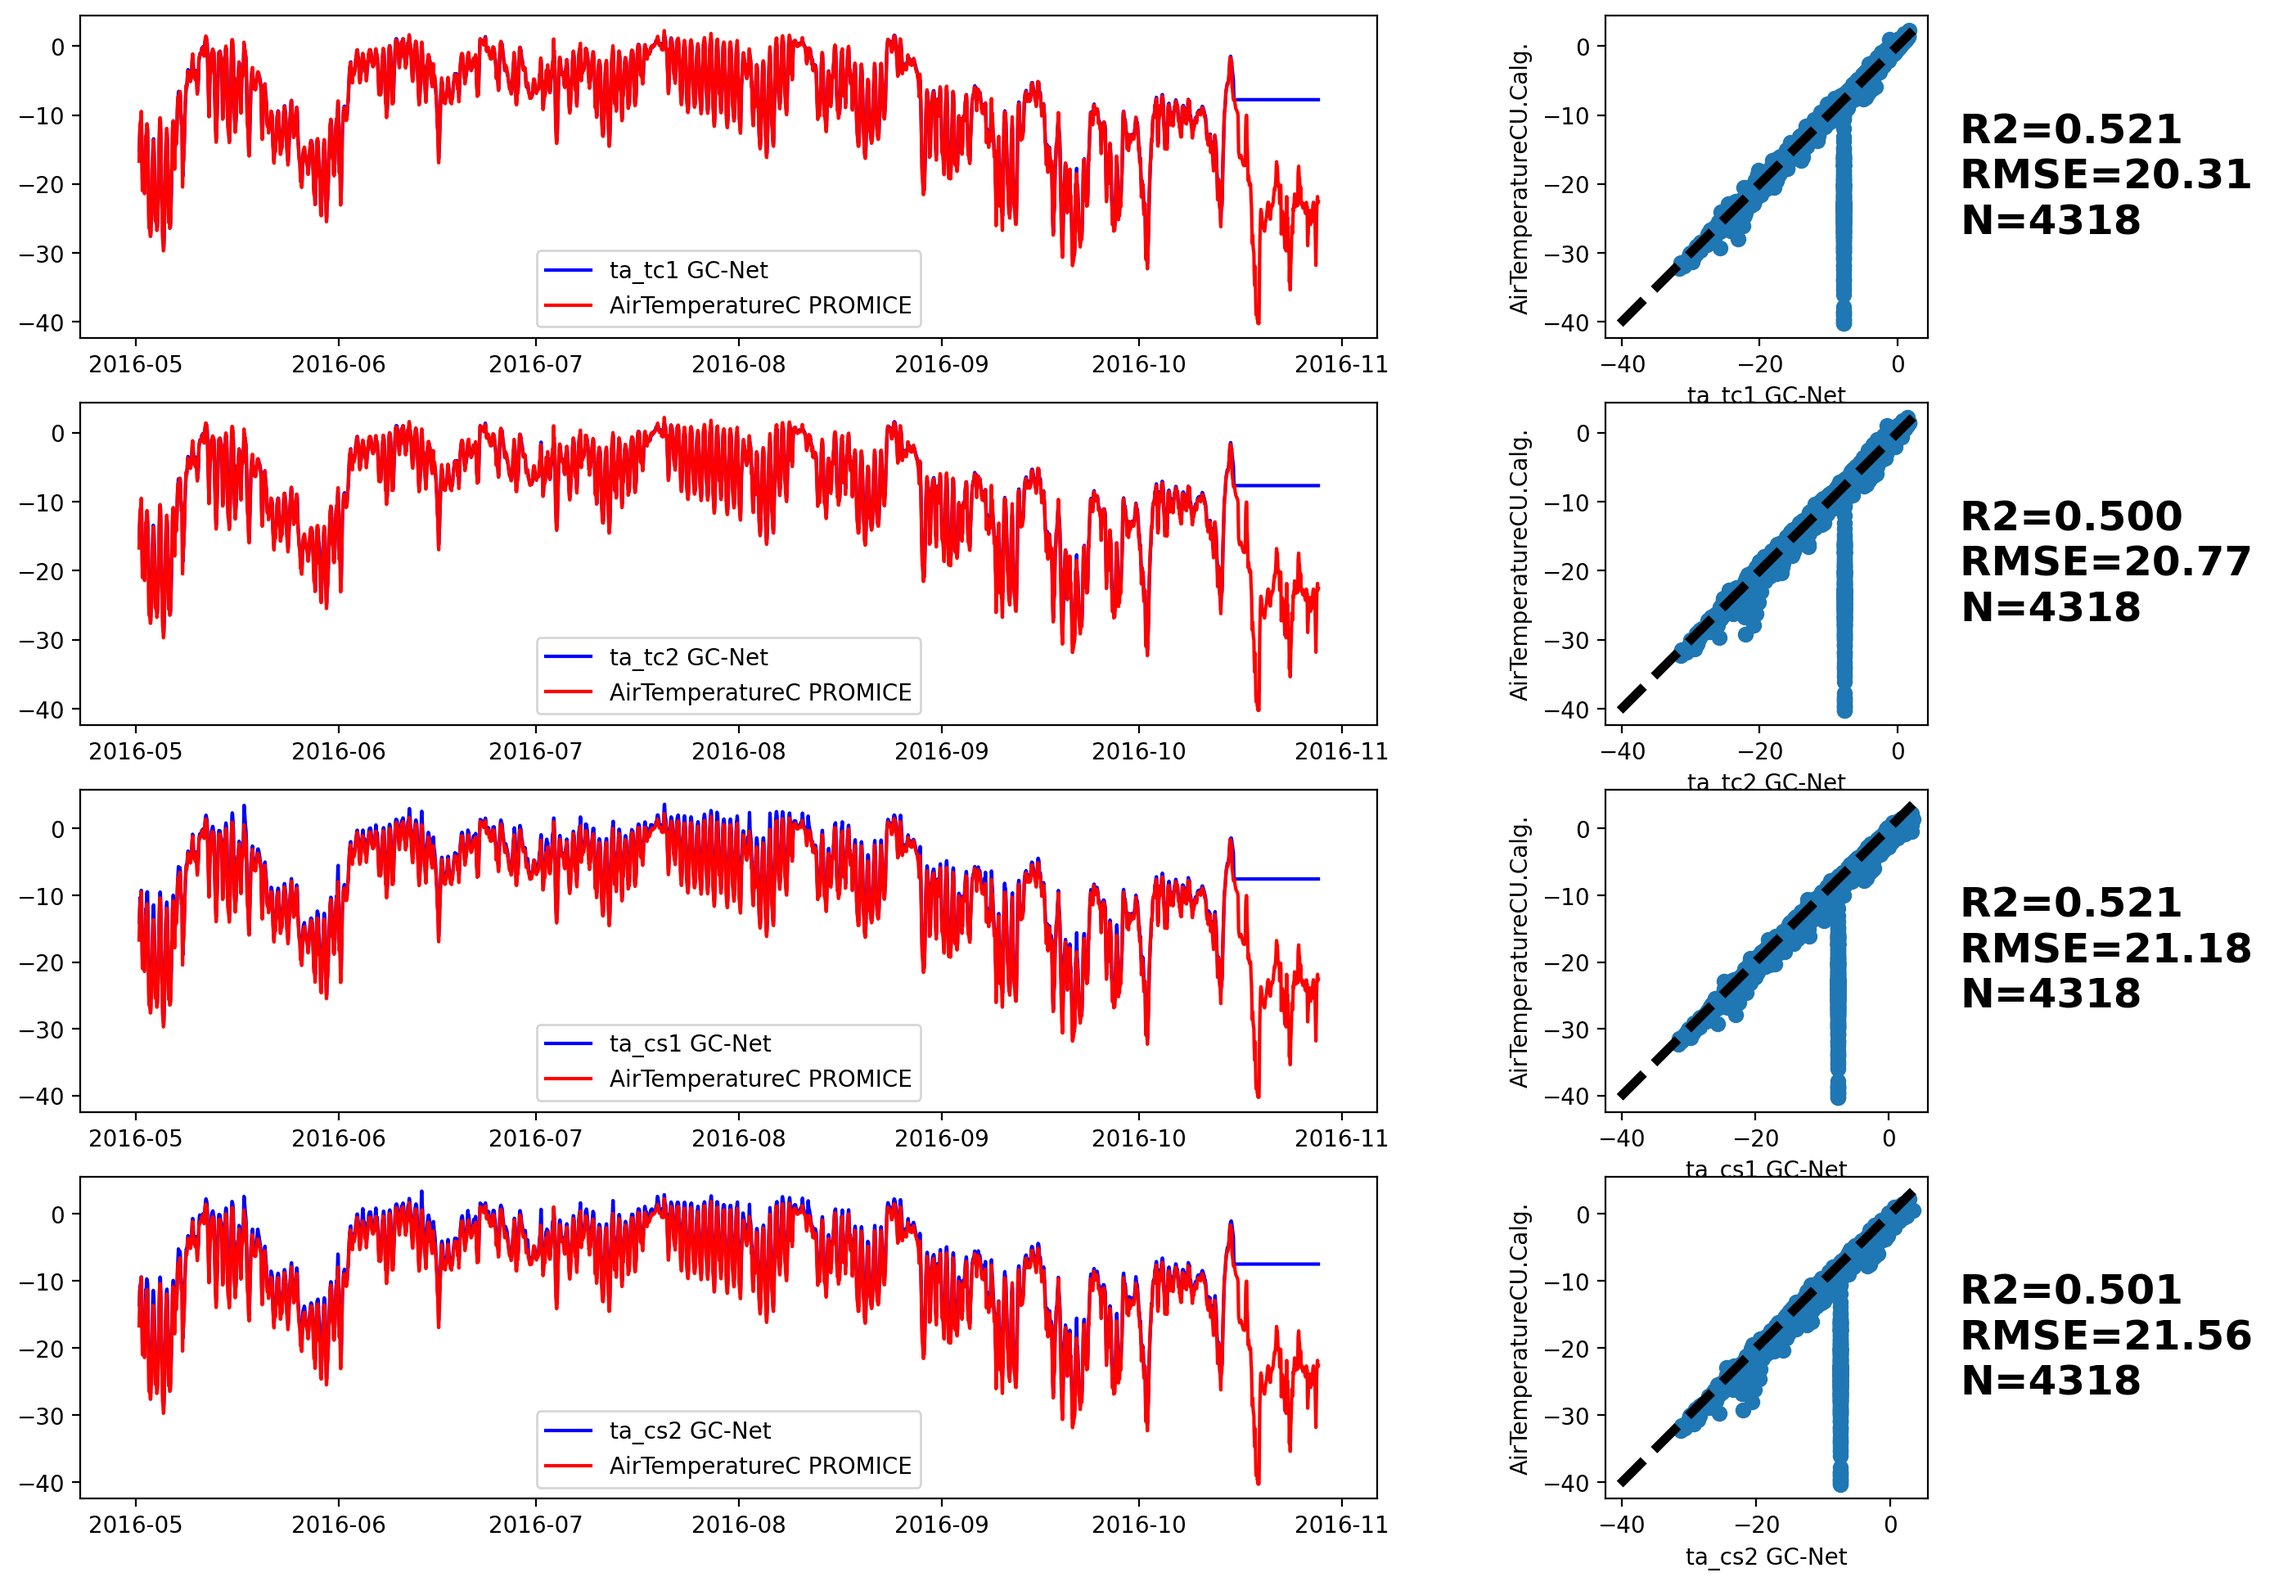
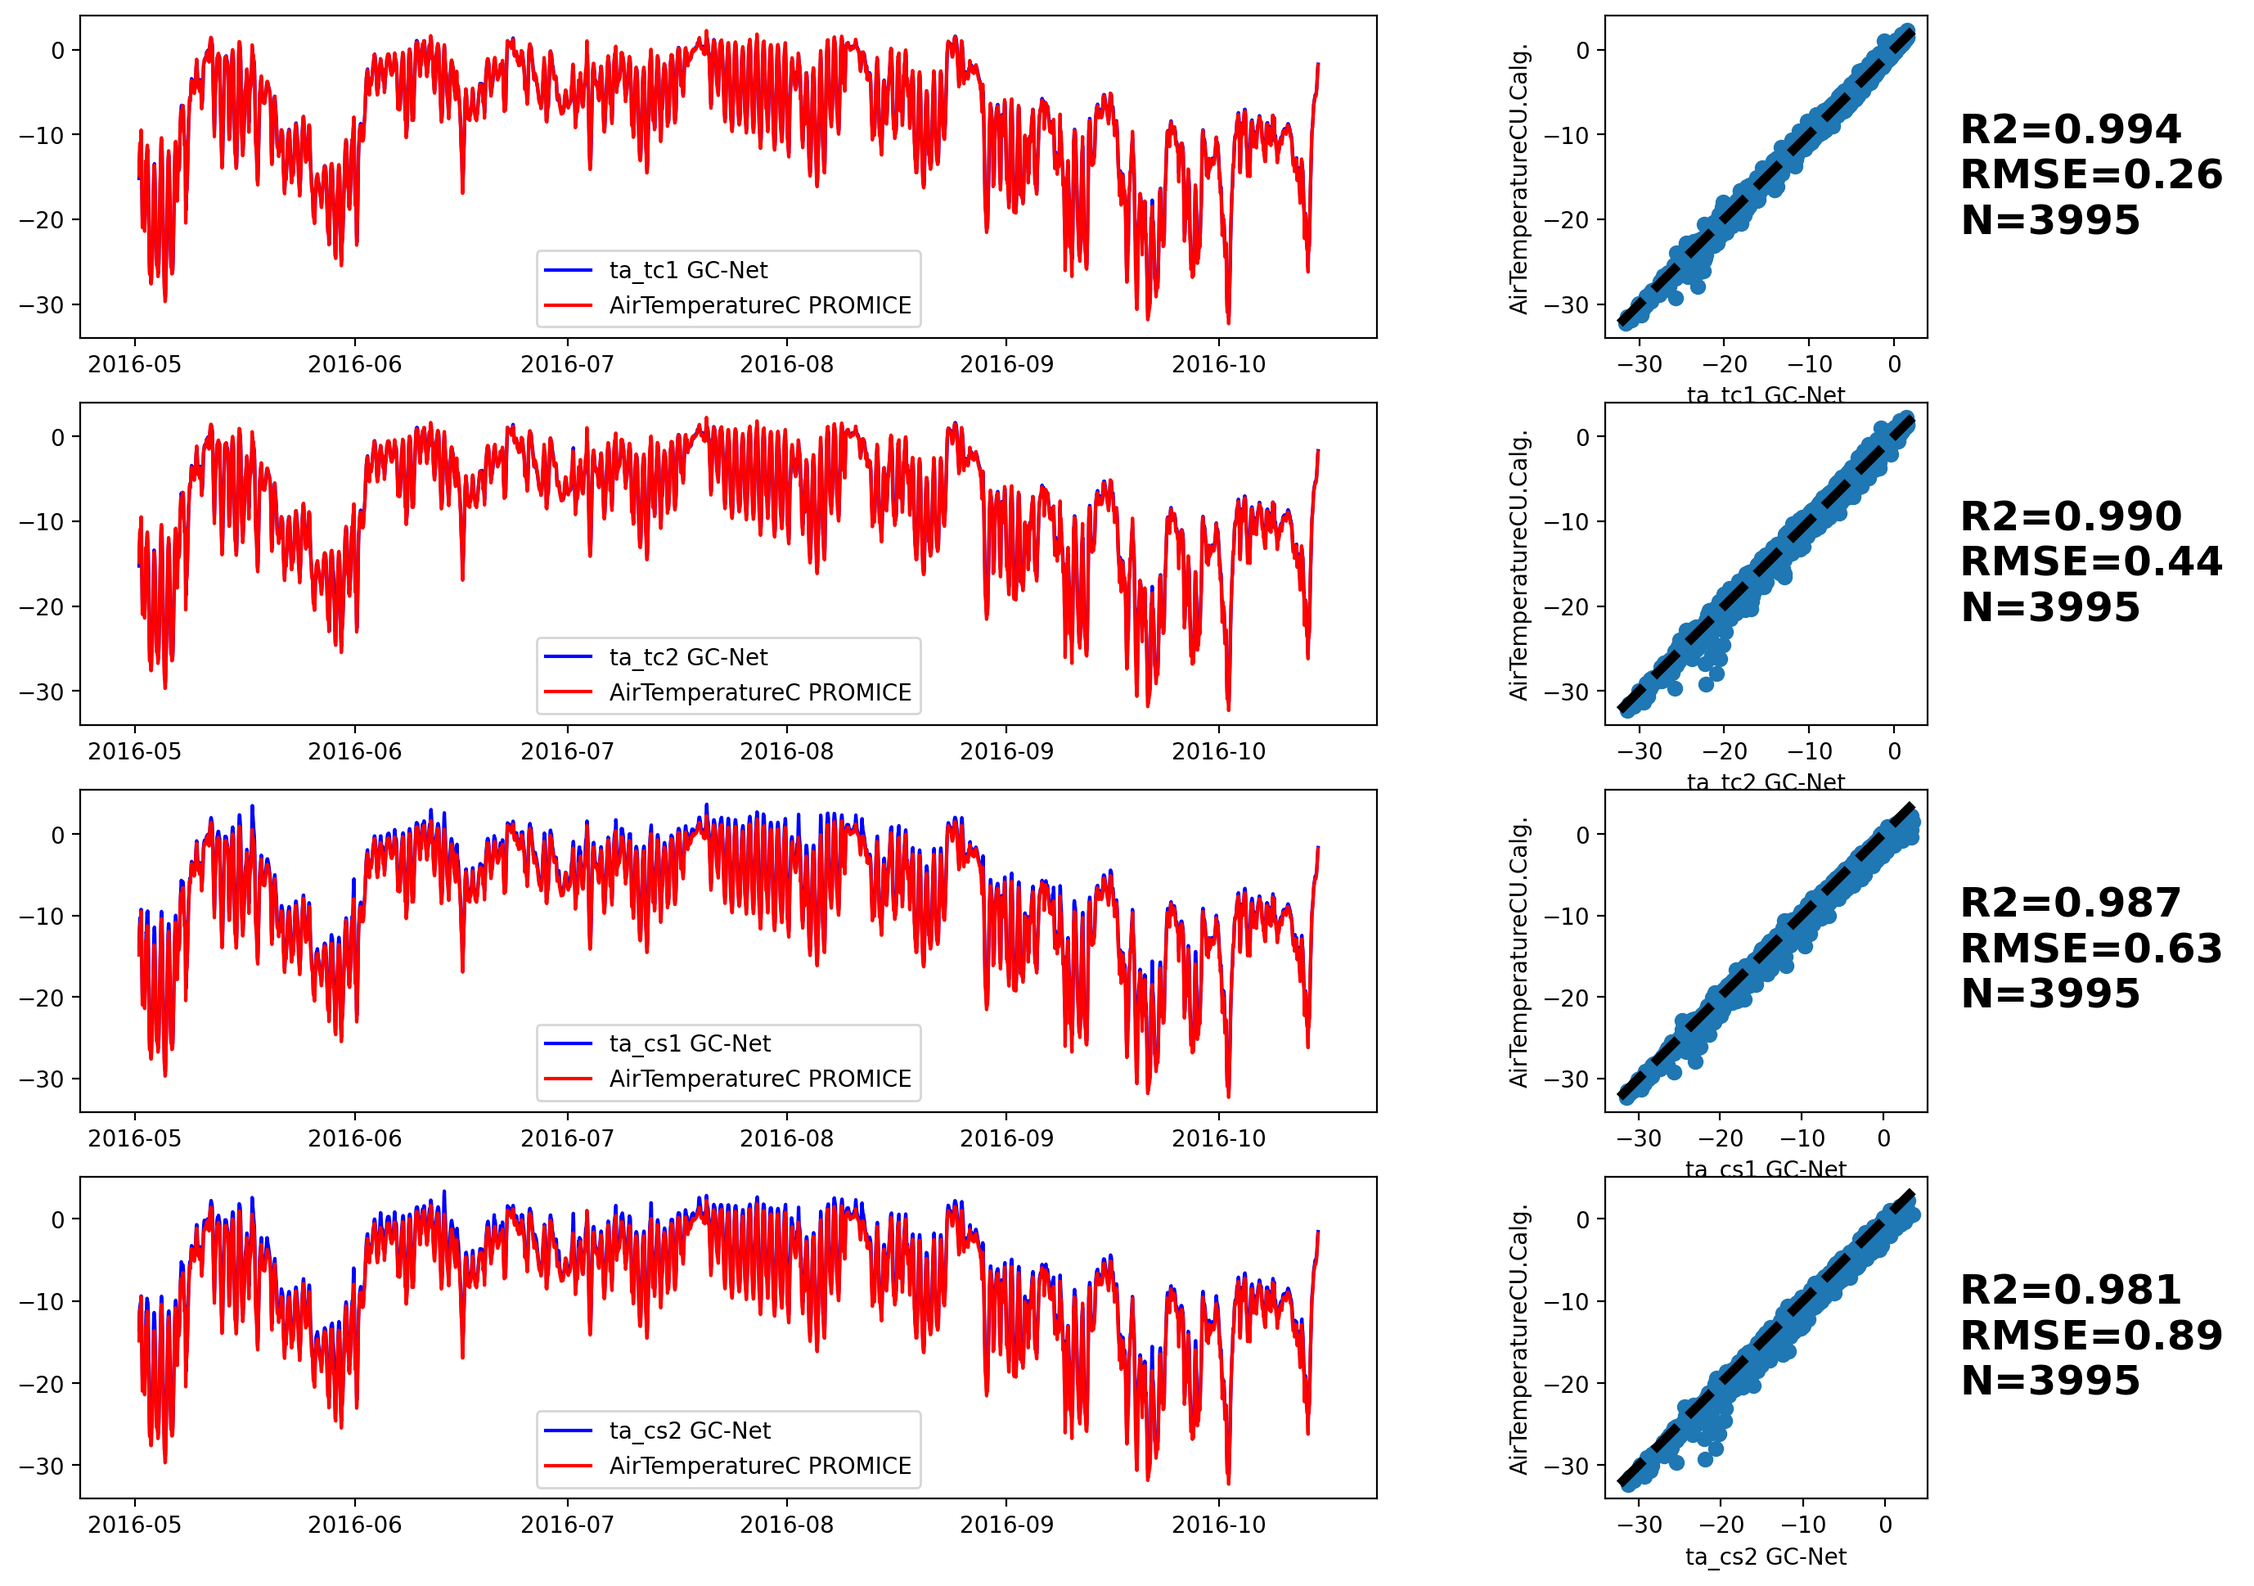
Added GITS-CEN
but no overlap

diff --git a/GC-Net-evaluation.py b/GC-Net-evaluation.py
@@ -37,16 +37,28 @@ df_samira = gnl.load_promice(path_ucalg)
 # selecting overlapping data
 df_gc = df_gc.loc[df_gc.time>=df_samira['time'][0]]
 df_gc = df_gc.loc[df_gc.time<=df_samira['time'].values[-1]]
-# df_gc.loc[df_gc.time>=datetime.datetime(2016, 10, 15, 9, 0)] = np.NaN
+df_gc=df_gc.loc[df_gc.time<='2016-10-15'] 
 
-# df_samira = df_samira.loc[df_samira.time>=df_gc['time'].iloc[0]]
-# df_samira = df_samira.loc[df_samira.time<=df_gc['time'].iloc[-1]]
+df_samira = df_samira.loc[df_samira.time>=df_gc['time'].iloc[0]]
+df_samira = df_samira.loc[df_samira.time<=df_gc['time'].iloc[-1]]
 
 
 # joining datasets
 df_all = pd.concat([df_gc, df_samira], axis = 0).sort_values(by='time')
 df_all = df_all.set_index('time')
 df_all['Albedo'] = df_all['ShortwaveRadiationUpWm2'] / df_all['ShortwaveRadiationDownWm2']
+df_all['rh1_i'] = gnl.RH_water2ice(df_all['rh1'] ,df_all['AirTemperatureC'])
+df_all['RelativeHumidity_i'] = gnl.RH_water2ice(df_all['RelativeHumidity_wrtWater'] ,df_all['AirTemperatureC'])
+df_all['ps']=df_all['ps']/100
+
+df_all['SpecHum1'] = gnl.RH2SpecHum(df_all['rh1_i'] ,
+                                                       df_all['ta_tc1'] ,
+                                                       df_all['ps'] )*1000
+
+df_all['SpecHum_ucalg'] = gnl.RH2SpecHum(df_all['RelativeHumidity_i'] ,
+                                                       df_all['AirTemperatureC'] ,
+                                                       df_all['AirPressurehPa'] )*1000
+
 df_interpol = df_all.interpolate(method='time')
 df_interpol = df_interpol[~df_interpol.index.duplicated(keep='first')].resample('h').asfreq()
 
@@ -61,14 +73,13 @@ varname1 =  ['ta_tc1','ta_tc2','ta_cs1','ta_cs2']
 varname2 =  ['AirTemperatureC', 'AirTemperatureC', 'AirTemperatureC', 'AirTemperatureC']
 gnl.plot_comp(df_all, df_interpol, varname1, varname2,'U.Calg.', station+'_temp')
 
-varname1 =  ['rh1','rh2','ps']
-varname2 =  ['RelativeHumidity', 'RelativeHumidity', 'AirPressurehPa']
+varname1 =  ['rh1','SpecHum1','ps']
+varname2 =  ['RelativeHumidity_wrtWater', 'SpecHum_ucalg','AirPressurehPa']
 gnl.plot_comp(df_all, df_interpol, varname1, varname2,'U.Calg.', station+'_rh_pres')
 
 varname1 =  ['wspd1','wspd2','wdir1','wdir2']
 varname2 =  [ 'WindSpeedms', 'WindSpeedms','WindDirectiond','WindDirectiond']
 gnl.plot_comp(df_all, df_interpol, varname1, varname2,'U.Calg.', station+'_wind')
-
 
 #%% Comparison at EastGRIP
 # Loading gc-net data
@@ -151,4 +162,88 @@ varname2 =  ['AirTemperature(C)', 'AirTemperature(C)','AirTemperature(C)','AirTe
              'WindSpeed(m/s)', 'WindSpeed(m/s)', 'WindDirection(d)', 'WindDirection(d)']
 
 gnl.tab_comp(df_all, df_interpol, varname1, varname2, 'Output/stat_all')
+
+#%% GITS-Camp Century
+# Loading gc-net data
+path_gc = '../../AWS_Processing/Input/GCnet/20190501_jaws/'
+station = 'GITS'
+df_gc = gnl.load_gcnet(path_gc, station)
+
+df_gc['ta_tc1']=df_gc['ta_tc1']-273.15
+df_gc['ta_tc2']=df_gc['ta_tc2']-273.15
+df_gc['ta_cs1']=df_gc['ta_cs1']-273.15
+df_gc['ta_cs2']=df_gc['ta_cs2']-273.15
+
+# loading data from CEN
+path_promice = '../../AWS_Processing/Input/PROMICE/CEN_hour_v03.txt'
+df_cen = pd.read_csv(path_promice,delim_whitespace=True)
+df_cen['time'] = df_cen.Year * np.nan
+
+for i, y in enumerate(df_cen.Year.values):
+    df_cen.time[i] = datetime.datetime(int(y), df_cen['MonthOfYear'].values[i], df_cen['DayOfMonth'].values[i], df_cen['HourOfDay(UTC)'].values[i])
+
+#set invalid values (-999) to nan 
+df_cen[df_cen==-999.0]=np.nan
+
+# selecting overlapping data
+# df_gc = df_gc.loc[df_gc.time>=df_cen['time'][0]]
+# df_gc = df_gc.loc[df_gc.time<=df_cen['time'].values[-1]]
+
+# df_cen = df_cen.loc[df_cen.time>=df_gc['time'].iloc[0]]
+# df_cen = df_cen.loc[df_cen.time<=df_gc['time'].iloc[-1]]
+
+# joining datasets
+df_all = pd.concat([df_gc, df_cen], axis = 0).sort_values(by='time')
+df_all = df_all.set_index('time')
+df_all['Albedo'] = df_all['ShortwaveRadiationUp(W/m2)'] / df_all['ShortwaveRadiationDown(W/m2)']
+# df_all['RelativeHumidity_wrt'] = gnl.RH_ice2water(df_all['RelativeHumidity(%)'] ,
+#                                                        df_all['AirTemperature(C)'])
+df_all['SpecHum1'] = gnl.RH2SpecHum(df_all['rh1'] ,
+                                                       df_all['ta_tc1'] ,
+                                                       df_all['ps'] )*1000
+df_all['SpecHum2'] = gnl.RH2SpecHum(df_all['rh2'] ,
+                                                       df_all['ta_tc2'] ,
+                                                       df_all['ps'] )*1000
+# df_all.pressure_Avg = df_all.pressure_Avg+300
+# df_all.pressure_Avg.loc[df_all.pressure_Avg<690] = np.nan
+# df_all['AirPressure(hPa)'].loc[df_all['AirPressure(hPa)']>750] = np.nan
+# df_all['Dir_Avg(1)']=360-df_all['Dir_Avg(1)']
+
+df_interpol = df_all.interpolate(method='time')
+df_interpol = df_interpol[~df_interpol.index.duplicated(keep='first')].resample('h').asfreq()
+# df_interpol=df_interpol.set_index('time')
+# df_interpol['t_air_Avg(1)'].loc[df_interpol['t_air_Avg(1)']<=-40] = np.nan
+# df_interpol['t_air_Avg(2)'].loc[df_interpol['t_air_Avg(2)']<=-40] = np.nan
+
+
+varname1 =  ['fsus', 'fsds', 'fsus_adjusted','fsds_adjusted','alb']
+varname2 =  ['ShortwaveRadiationUp(W/m2)', 'ShortwaveRadiationDown(W/m2)',
+             'ShortwaveRadiationUp(W/m2)', 'ShortwaveRadiationDown(W/m2)','Albedo']
+
+gnl.plot_comp(df_all, df_interpol, varname1, varname2,'CEN', station+'_SWrad')
+
+varname1 =  ['ta_tc1','ta_tc2','ta_cs1','ta_cs2']
+varname2 =  ['AirTemperature(C)', 'AirTemperature(C)','AirTemperature(C)','AirTemperature(C)']
+gnl.plot_comp(df_all, df_interpol, varname1, varname2,'CEN', station+'_temp')
+
+varname1 =  ['rh1','rh2','SpecHum1','SpecHum2','ps']
+varname2 =  ['RelativeHumidity(%)','RelativeHumidity(%)',
+             'SpecificHumidity(g/kg)','SpecificHumidity(g/kg)','AirPressure(hPa)']
+gnl.plot_comp(df_all, df_interpol, varname1, varname2,'CEN', station+'_rh_pres')
+
+varname1 =  ['wspd1','wspd2','wdir1','wdir2']
+varname2 =  [ 'WindSpeed(m/s)', 'WindSpeed(m/s)','WindDirection(d)','WindDirection(d)']
+gnl.plot_comp(df_all, df_interpol, varname1, varname2,'CEN', station+'_wind')
+
+# %% 
+fig, ax = plt.subplots(2,1, figsize=(10, 7))
+ax[0].plot(df_gc['time'],df_gc['ta_tc1'],label='GITS')
+ax[0].plot(df_cen['time'],df_cen['AirTemperature(C)'],label='CEN')
+ax[0].set_ylabel('Air temperature (deg C)')
+ax[0].legend()
+ax[1].plot(df_gc['time'],df_gc['fsds_adjusted'],label='GITS')
+ax[1].plot(df_cen['time'],df_cen['ShortwaveRadiationDown(W/m2)'],label='CEN')
+ax[1].set_ylabel('Shortwave Radiation Down (W/m2)')
+ax[1].set_xlabel('Year')
+fig.savefig('./Output/GITS_CEN_temp.png',bbox_inches='tight', dpi=200)
 

diff --git a/gcnet_lib.py b/gcnet_lib.py
@@ -21,6 +21,7 @@ sys.path.insert(0,'../jaws/jaws')
 import sunposition as sunpos
 from pytablewriter import MarkdownTableWriter
 import math      
+from matplotlib.patches import Patch
 
 #%%
 def load_gcnet(path_gc, station):
@@ -185,8 +186,6 @@ def day_night_plot(df_all, df_interpol, varname1, varname2, figure_name):
     ax.set_xticklabels(varname1)
     ax.set_ylabel('GC-Net - PROMICE')
     ax.axhline(0, color='black', lw=2, alpha=0.5)
-    from matplotlib.patches import Patch
-    from matplotlib.lines import Line2D
     
     legend_elements = [Patch(facecolor='0.65', edgecolor='k', label='Day'),
                        Patch(facecolor='0.85', edgecolor='k', label='Night')]

diff --git a/README.md b/README.md
@@ -38,6 +38,12 @@ B.Vandecrux, N. Karlson, J. E. Box
 
 
 
+# GITS-CEN
+
+There is currently no overlap between the two dataset.
+Need to ask for more recent GITS data (transmission?).
+![-](Output/GITS_CEN_temp..png)
+
 # Dye-2
 ## Shortwave radiation
 ![-](Output/dye-2_SWrad.png)
